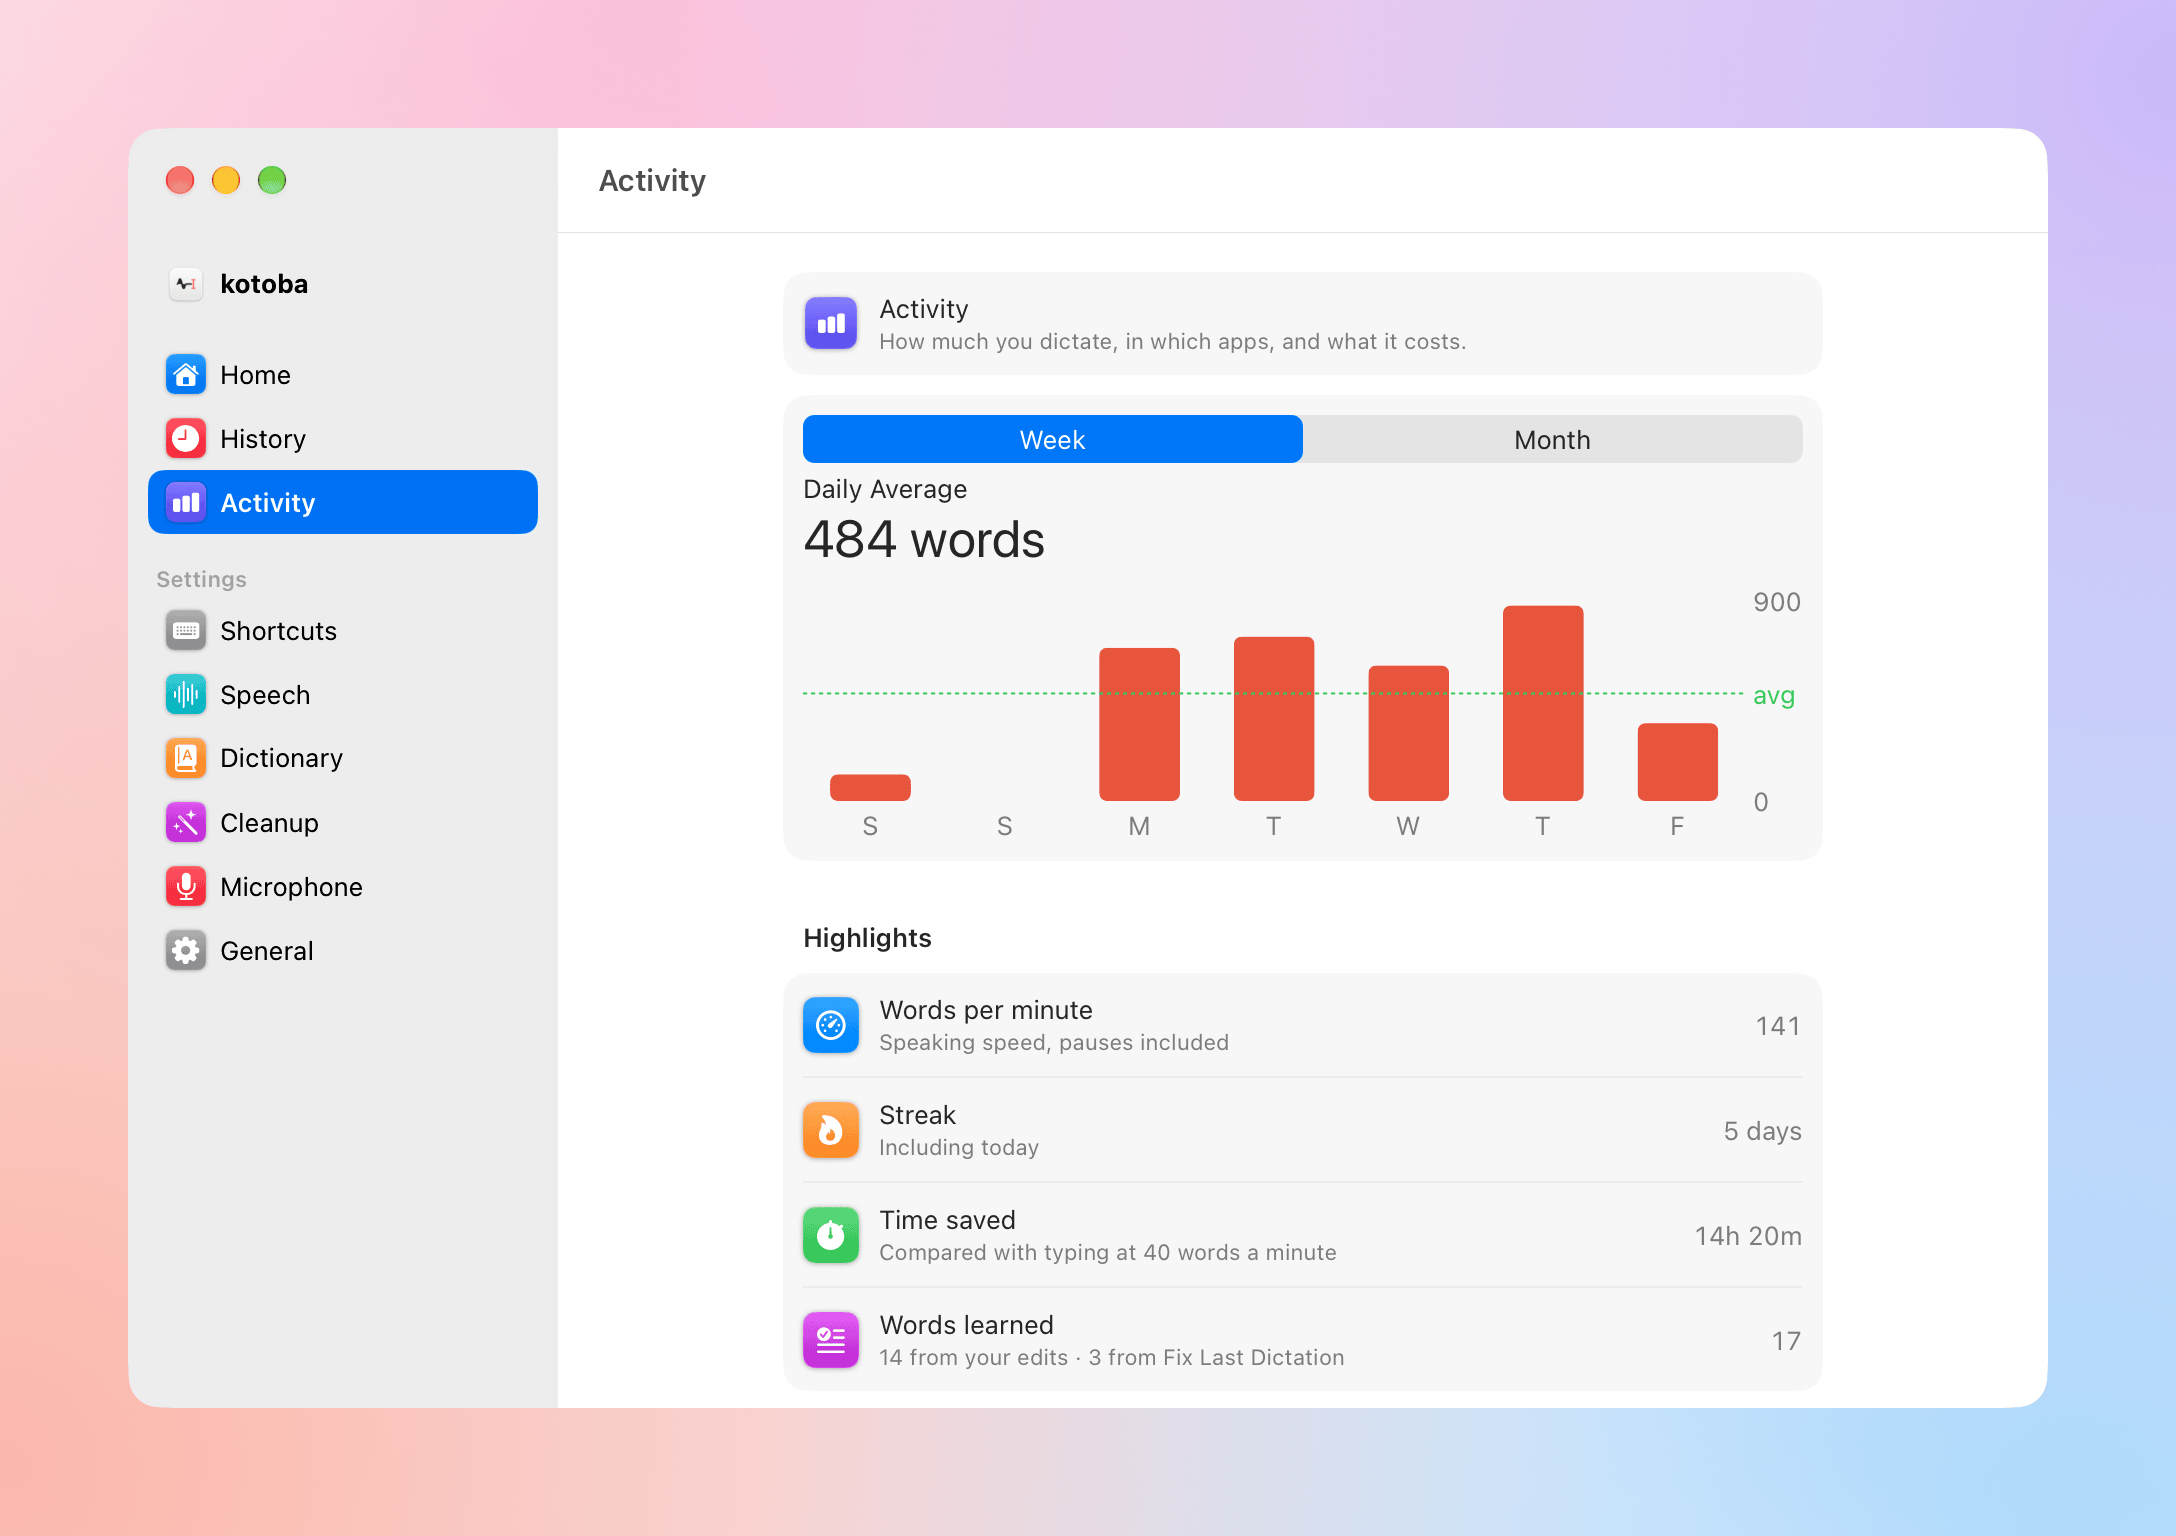
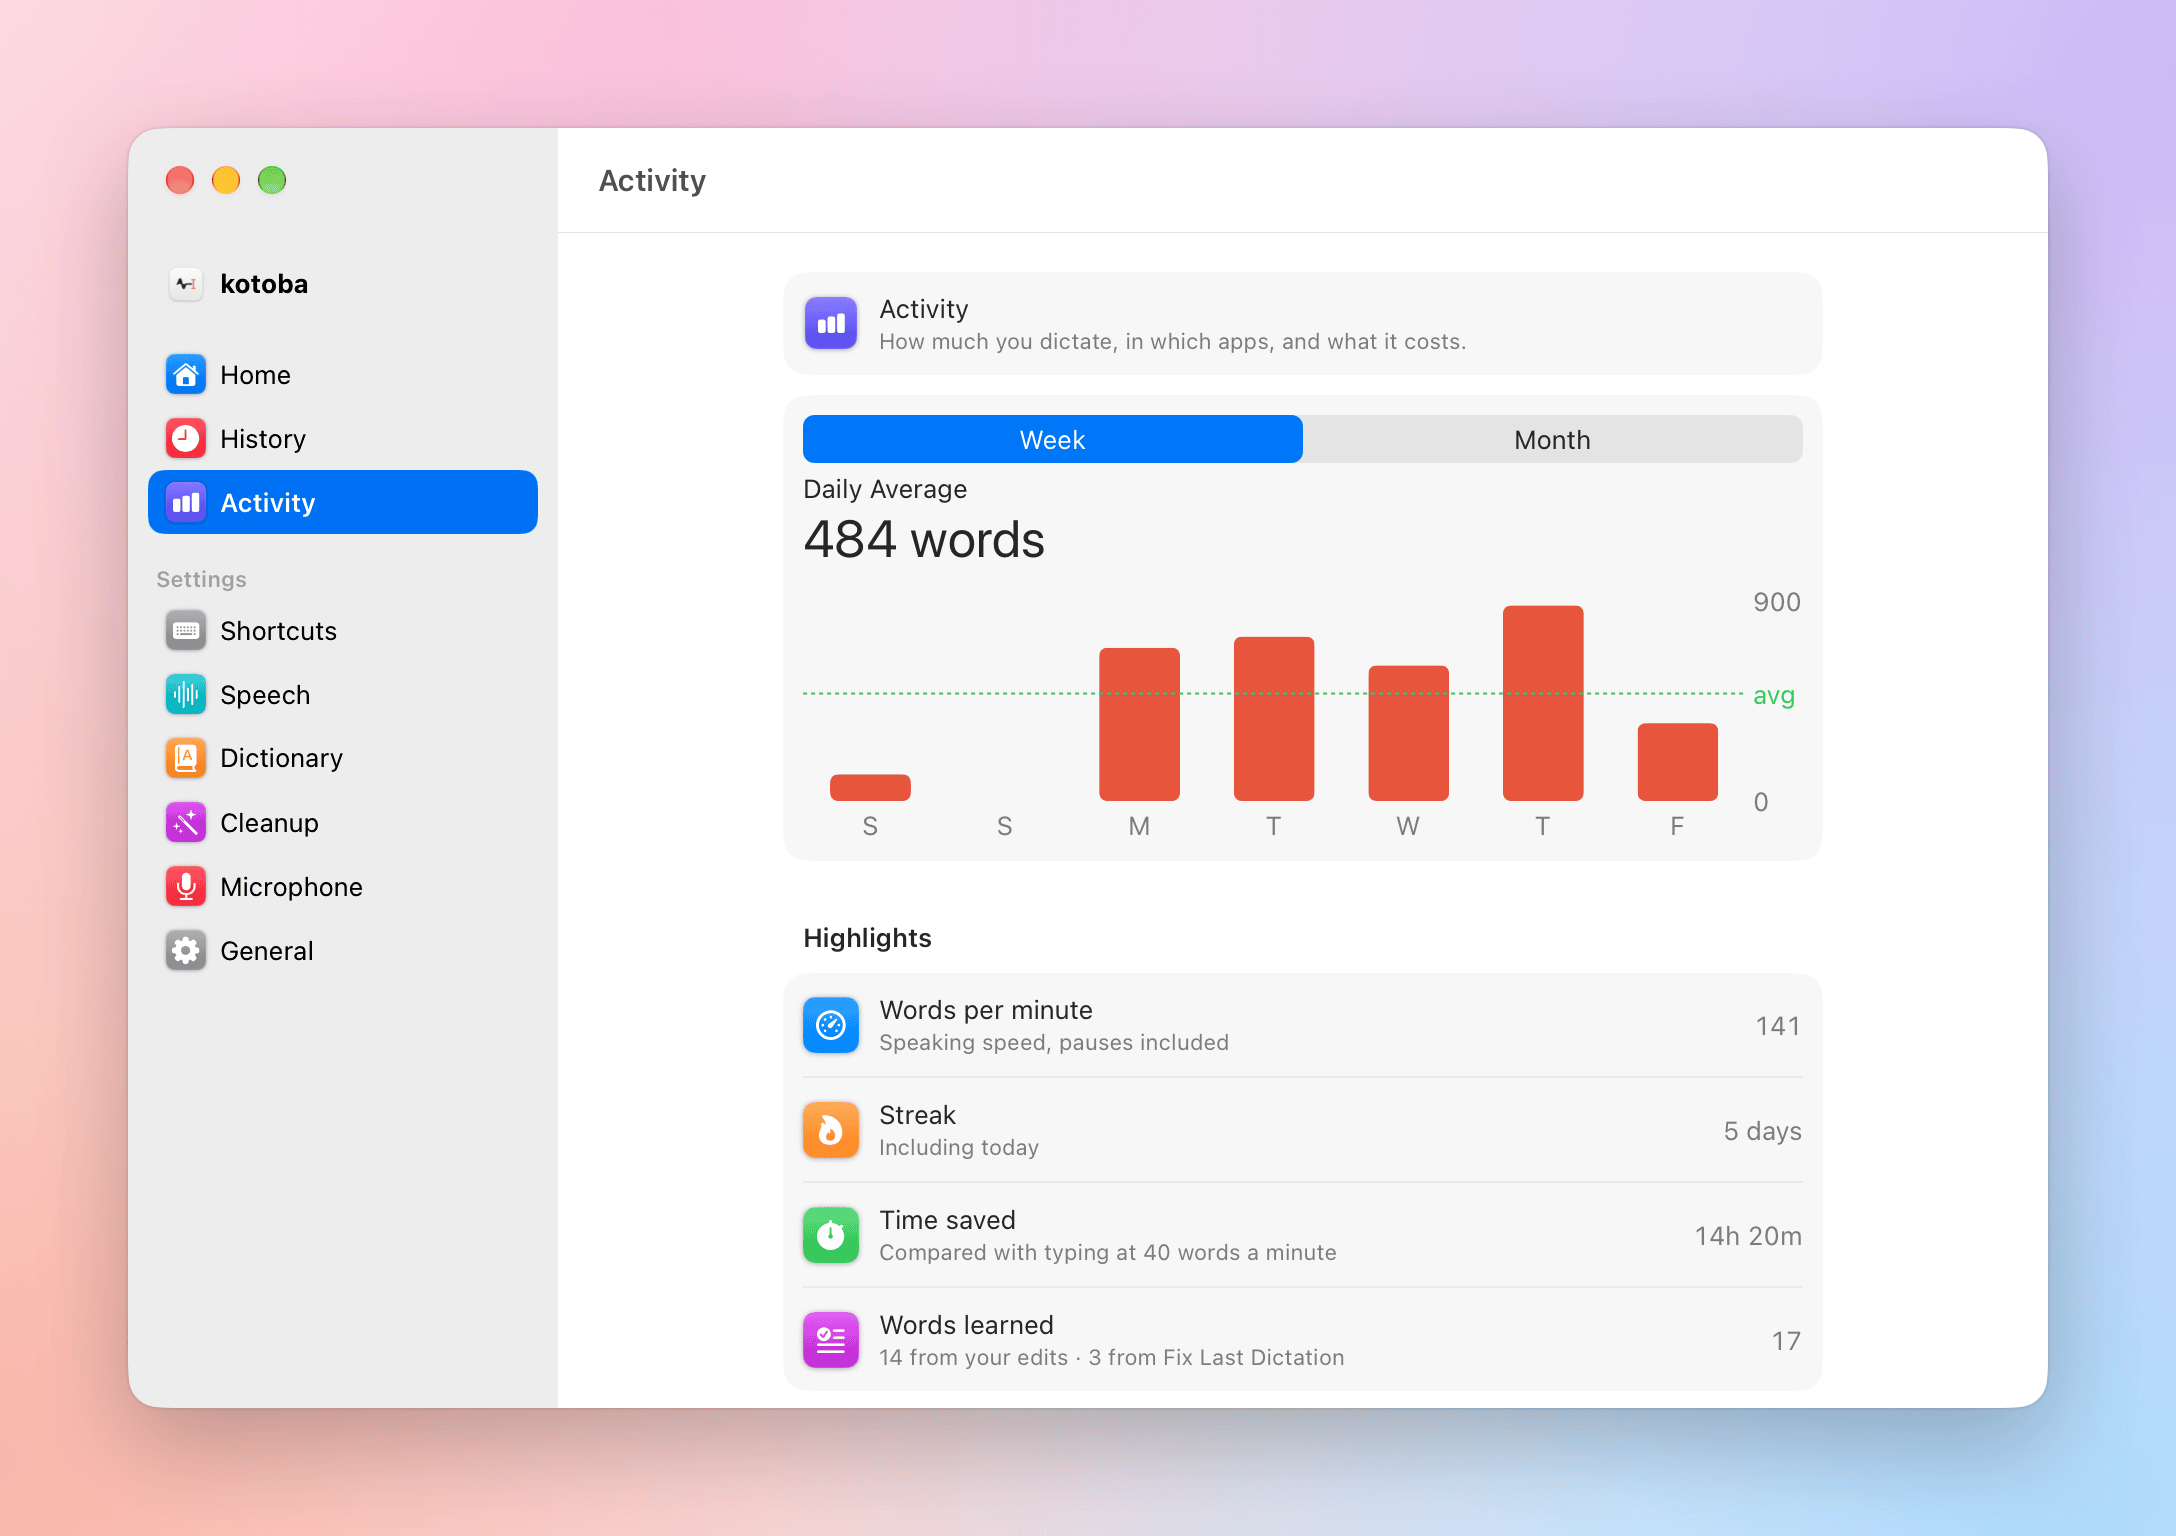
README and site window images get the window shadow the hero demo has: one shared Showcase.drawWindow draws an active window's shadow from the window's own shape (the window server leaves it out of a window that was never on screen); the capture loses its unused shadow margin and the window-corner s

diff --git a/App/ShowcaseSnapshots.swift b/App/ShowcaseSnapshots.swift
@@ -2,9 +2,8 @@ import AppKit
 
 /// The README's and the site's images (`make readme-images`, `--showcase <folder>`): the main window as macOS draws it
 /// (title bar, glass toolbar, rounded corners) and the pill's main looks, on a colourful stage, light and dark, at 2x.
-/// The window is the real one, captured and put on the stage, with no shadow: the window server leaves it out of a
-/// window that was never on screen (the hero demo draws one, `HeroDemo.onStage`). The pill's glass refracts the stage
-/// drawn in its own window. macOS 27 draws the sidebar edge to edge, over the page's background: no Apple app has
+/// The window is the real one, captured and put on the stage with an active window's shadow (`drawWindow`). The pill's
+/// glass refracts the stage drawn in its own window. macOS 27 draws the sidebar edge to edge, over the page's background: no Apple app has
 /// a floating sidebar there (sidebar spike, 2026-10-24), so the images show it as it is.
 @MainActor
 enum Showcase {
@@ -15,57 +14,43 @@ enum Showcase {
     /// The stage around the window, on each side.
     private static let windowMargin: CGFloat = 64
 
-    /// The window in the middle of a stage `windowMargin` larger on each side.
+    /// The window in the middle of a stage `windowMargin` larger on each side, with its shadow (`drawWindow`).
     static func windowOnStage(_ window: NSWindow, scale: CGFloat, appearance: NSAppearance) throws -> CGImage {
-        let capture = try SnapshotCapture.image(of: window, scale: scale, shadowMargin: windowMargin)
-        let size = window.frame.size
-        let width = Int(((size.width + 2 * windowMargin) * scale).rounded())
-        let height = Int(((size.height + 2 * windowMargin) * scale).rounded())
+        let capture = try SnapshotCapture.image(of: window, scale: scale)
+        let margin = Int((windowMargin * scale).rounded())
+        let width = capture.width + 2 * margin
+        let height = capture.height + 2 * margin
         guard let space = CGColorSpace(name: CGColorSpace.sRGB),
             let context = CGContext(
                 data: nil, width: width, height: height, bitsPerComponent: 8, bytesPerRow: 0, space: space,
-                bitmapInfo: CGImageAlphaInfo.premultipliedLast.rawValue),
-            let corner = windowCorner(in: capture)
-        else { throw ShowcaseError.noWindow }
+                bitmapInfo: CGImageAlphaInfo.premultipliedLast.rawValue)
+        else { throw ShowcaseError.noBitmap }
         Stage.draw(in: context, size: CGSize(width: width, height: height), isDark: isDark(appearance))
-        // The capture's top left goes where the window lands `windowMargin` from the stage's top left.
-        let left = windowMargin * scale - corner.x
-        let top = windowMargin * scale - corner.y
-        context.draw(
+        drawWindow(
             capture,
-            in: CGRect(
-                x: left, y: CGFloat(height) - top - CGFloat(capture.height), width: CGFloat(capture.width),
-                height: CGFloat(capture.height)))
-        guard let image = context.makeImage() else { throw ShowcaseError.noWindow }
+            in: CGRect(x: margin, y: margin, width: capture.width, height: capture.height), of: context, scale: scale,
+            isDark: isDark(appearance))
+        guard let image = context.makeImage() else { throw ShowcaseError.noBitmap }
         return image
     }
 
-    /// Where the window starts in its capture, in pixels from the top left: the first opaque pixel along the middle
-    /// row and the middle column (the shadow around it is translucent).
-    private static func windowCorner(in capture: CGImage) -> CGPoint? {
-        let width = capture.width
-        let height = capture.height
-        var pixels = [UInt8](repeating: 0, count: width * height * 4)
-        let isDrawn = pixels.withUnsafeMutableBytes { buffer in
-            guard let space = CGColorSpace(name: CGColorSpace.sRGB),
-                let context = CGContext(
-                    data: buffer.baseAddress, width: width, height: height, bitsPerComponent: 8, bytesPerRow: width * 4,
-                    space: space, bitmapInfo: CGImageAlphaInfo.premultipliedLast.rawValue)
-            else { return false }
-            context.draw(capture, in: CGRect(x: 0, y: 0, width: width, height: height))
-            return true
+    /// Draws `capture`, a window as `SnapshotCapture` has it, in `rect` of `context`, with the shadow macOS gives an
+    /// active window. The window server leaves the shadow out of a window that was never on screen (2026-10-25: the
+    /// pixels around the window matched the stage), so it is drawn here from the window's own shape (its alpha): wide
+    /// and soft under it, and close at its edge. `scale` is pixels per point.
+    static func drawWindow(_ capture: CGImage, in rect: CGRect, of context: CGContext, scale: CGFloat, isDark: Bool) {
+        for (drop, blur, alpha) in [(18.0, 50.0, isDark ? 0.55 : 0.24), (0.0, 2.0, isDark ? 0.7 : 0.2)] {
+            context.saveGState()
+            context.setShadow(
+                offset: CGSize(width: 0, height: -drop * scale), blur: blur * scale,
+                color: CGColor(gray: 0, alpha: alpha))
+            context.draw(capture, in: rect)
+            context.restoreGState()
         }
-        // Rows from the top: a bitmap context's memory starts at the image's top row.
-        func isOpaque(_ x: Int, _ y: Int) -> Bool { pixels[(y * width + x) * 4 + 3] == 255 }
-        guard isDrawn, let x = (0..<width).first(where: { isOpaque($0, height / 3) }),
-            let y = (0..<height).first(where: { isOpaque(width / 3, $0) })
-        else { return nil }
-        return CGPoint(x: x, y: y)
     }
 
     private enum ShowcaseError: Error {
-        /// The capture has no opaque window in it.
-        case noWindow
+        case noBitmap
     }
 }
 

diff --git a/App/SnapshotCapture.swift b/App/SnapshotCapture.swift
@@ -134,14 +134,12 @@ enum SnapshotCapture {
     }
 
     /// The window as the window server composites it. A window that is never ordered in is captured on its own
-    /// (`desktopIndependentWindow`), so nothing shows on screen. With a `shadowMargin`, the image is that much wider
-    /// and taller on each side, the window at `scale` near its top left. The window server leaves the shadow out of a
-    /// window that was never on screen: the margin comes back clear (2026-10-25, the showcase images' pixels around the
-    /// window match the stage).
-    static func image(of window: NSWindow, scale: CGFloat, shadowMargin: CGFloat = 0) throws -> CGImage {
+    /// (`desktopIndependentWindow`), so nothing shows on screen. It has no shadow: the window server leaves it out of a
+    /// window that was never on screen, also with room around it (2026-10-25); `Showcase.drawWindow` draws one.
+    static func image(of window: NSWindow, scale: CGFloat) throws -> CGImage {
         #if DEBUG
             do {
-                return try captureOnce(window, scale: scale, shadowMargin: shadowMargin)
+                return try captureOnce(window, scale: scale)
             } catch SCStreamError.userDeclined {
                 throw CaptureFailure.noScreenRecording(responsibleApp)
             }
@@ -151,7 +149,7 @@ enum SnapshotCapture {
     }
 
     #if DEBUG
-        private static func captureOnce(_ window: NSWindow, scale: CGFloat, shadowMargin: CGFloat) throws -> CGImage {
+        private static func captureOnce(_ window: NSWindow, scale: CGFloat) throws -> CGImage {
             window.displayIfNeeded()
             CATransaction.flush()
             let id = CGWindowID(window.windowNumber)
@@ -173,11 +171,11 @@ enum SnapshotCapture {
                 }
                 let filter = SCContentFilter(desktopIndependentWindow: listed)
                 let configuration = SCStreamConfiguration()
-                configuration.width = Int(((filter.contentRect.width + 2 * shadowMargin) * scale).rounded())
-                configuration.height = Int(((filter.contentRect.height + 2 * shadowMargin) * scale).rounded())
+                configuration.width = Int((filter.contentRect.width * scale).rounded())
+                configuration.height = Int((filter.contentRect.height * scale).rounded())
                 // With the cursor, the capture of a window that is not on screen fails (-3811).
                 configuration.showsCursor = false
-                configuration.ignoreShadowsSingleWindow = shadowMargin == 0
+                configuration.ignoreShadowsSingleWindow = true
                 configuration.colorSpaceName = CGColorSpace.sRGB
                 return try await SCScreenshotManager.captureImage(contentFilter: filter, configuration: configuration)
             }

diff --git a/App/HeroDemoSnapshots.swift b/App/HeroDemoSnapshots.swift
@@ -192,17 +192,7 @@ enum HeroDemo {
         let place = CGRect(
             x: windowFrame.minX * scale, y: windowFrame.minY * scale, width: windowFrame.width * scale,
             height: windowFrame.height * scale)
-        // The capture of a window that was never on screen has no shadow, also with a shadow margin (measured
-        // 2026-10-25: the margin came back clear): the demo draws an active window's, wide and soft under it and close
-        // at its edge, from the window's own shape.
-        for (drop, blur, alpha) in [(18.0, 50.0, isDark ? 0.55 : 0.24), (0.0, 2.0, isDark ? 0.7 : 0.2)] {
-            context.saveGState()
-            context.setShadow(
-                offset: CGSize(width: 0, height: -drop * scale), blur: blur * scale,
-                color: CGColor(gray: 0, alpha: alpha))
-            context.draw(capture, in: place)
-            context.restoreGState()
-        }
+        Showcase.drawWindow(capture, in: place, of: context, scale: scale, isDark: isDark)
         guard let image = context.makeImage() else { throw DemoError.noBitmap }
         return image
     }
